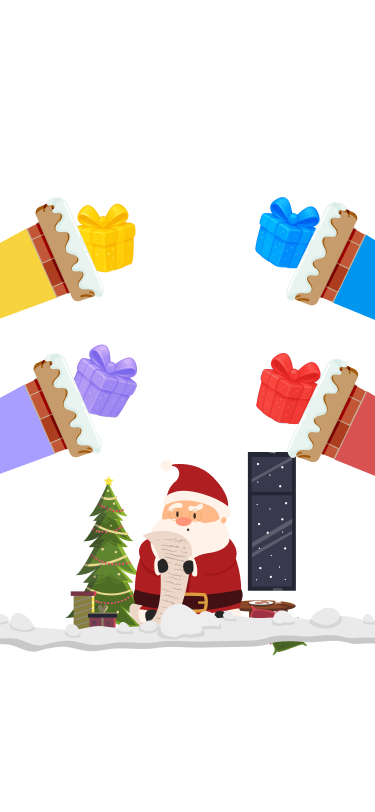
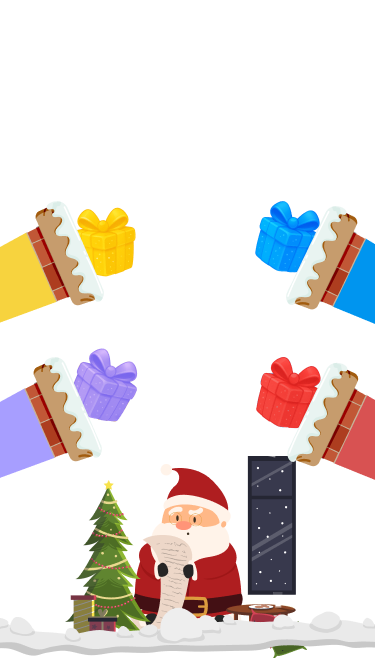
style: update button padding and background colors in various components for improved UI consistency; adjust image dimensions and layout in Game views for better visual presentation

diff --git a/src/views/Balance/ui/TransactionHistory.vue b/src/views/Balance/ui/TransactionHistory.vue
@@ -11,19 +11,22 @@ defineProps<Props>()
 </script>
 
 <template>
-  <div class="bg-white text-[#484C52] rounded-2xl p-4">
+  <div class="bg-white text-[#484C52] rounded-2xl p-2.5">
     <h2 class="text-lg font-bold text-center mb-4">История транзакций</h2>
 
     <div v-if="transactions.length > 0" class="space-y-3">
-      <template v-for="transaction in transactions" :key="transaction.id">
-        <div class="flex items-center gap-3">
+      <template v-for="(transaction, index) in transactions" :key="transaction.id">
+        <div
+          class="flex items-center gap-2.5"
+          :class="{ 'border-b border-[#484C52]/10 pb-2.5': index !== transactions.length - 1 }"
+        >
           <div
-            class="w-10 h-10 rounded-lg flex items-center justify-center shrink-0"
+            class="w-8.5 h-8.5 rounded-lg flex items-center justify-center shrink-0"
             :style="{ backgroundColor: parseColorWithOpacity(transaction.style.iconBg) }"
           >
             <Icons
               :name="transaction.style.iconName"
-              :size="20"
+              :size="transaction.style.iconName === 'check' ? 14 : 20"
               :style="{ color: transaction.style.iconColor }"
             />
           </div>
@@ -34,10 +37,10 @@ defineProps<Props>()
           </div>
 
           <div
-            class="bg-[#0095EF] flex items-center text-white justify-center gap-1 rounded-full px-3 py-1 shrink-0"
+            class="bg-[#0095EF] flex items-center text-white justify-center gap-1 rounded-full px-2 py-1 shrink-0"
           >
-            <Icons name="ton" :size="16" />
-            <p class="text-xs font-medium">{{ transaction.amount }}</p>
+            <Icons name="ton" :size="12" />
+            <p class="text-[0.625rem] font-medium">{{ transaction.amount }}</p>
           </div>
         </div>
       </template>
@@ -48,4 +51,3 @@ defineProps<Props>()
     </div>
   </div>
 </template>
-

diff --git a/src/components/layout/Header.vue b/src/components/layout/Header.vue
@@ -80,13 +80,13 @@ const setVibration = (enabled: boolean) => {
         <div class="space-y-2.5 pt-10 font-raleway text-[#484C52]">
           <div class="flex items-center justify-between gap-2.5 rounded-xl bg-[#F5F5F5] p-1.5">
             <button
-              class="flex w-full items-center justify-center gap-2.5 rounded-full bg-[#A79EFF] py-3.5 text-white"
+              class="flex w-full items-center justify-center gap-2.5 rounded-full bg-[#A79EFF] py-2 text-white"
             >
               <Icons name="down-arrow" />
               <span class="font-raleway font-bold">{{ t('settings.actions.deposit') }}</span>
             </button>
             <button
-              class="flex w-full items-center justify-center gap-2.5 rounded-full border border-[#E4E4E4] bg-white py-3.5 text-black"
+              class="flex w-full items-center justify-center gap-2.5 rounded-full border border-[#E4E4E4] bg-white py-2 text-[#484C52]"
             >
               <span class="font-raleway font-bold">{{ t('settings.actions.withdraw') }}</span>
               <Icons name="up-arrow" />
@@ -109,7 +109,7 @@ const setVibration = (enabled: boolean) => {
                 "
                 @click="selectLanguage(language.id)"
               >
-                <img :src="language.image" :alt="language.label" class="h-5 w-5 rounded-full" />
+                <img :src="language.image" :alt="language.label" class="h-5 aspect-[4/3] rounded-sm" />
                 {{ language.label }}
               </button>
             </div>

diff --git a/src/views/Balance/ui/PaymentMethodSelector.vue b/src/views/Balance/ui/PaymentMethodSelector.vue
@@ -25,19 +25,19 @@ const handleSelect = (methodId: string) => {
       <button
         v-for="method in methods"
         :key="method.id"
-        class="rounded-xl p-2.5 flex flex-col items-center gap-1.5 transition-all"
-        :class="selectedId === method.id ? 'bg-[#0095EF]' : 'bg-[#F7F7F7]'"
+        class="rounded-xl pt-[5px] pb-2.5 flex flex-col items-center  transition-all"
+        :class="selectedId === method.id ? 'bg-[#0095EF]' : 'bg-[#F5F5F5]'"
         @click="handleSelect(method.id)"
       >
-        <img :src="method.icon" :alt="method.name" class="w-6 h-6" />
+        <img :src="method.icon" :alt="method.name" class="w-7.5 h-7.5 border-3 rounded-full" :class="selectedId === method.id ? 'border-white' : 'border-transparent'" />
         <p
-          class="text-xs font-medium text-center"
+          class="text-xs font-medium text-center leading-none pt-2.5"
           :class="selectedId === method.id ? 'text-white' : 'text-black'"
         >
           {{ method.name }}
         </p>
         <p
-          class="text-[0.625rem]"
+          class="text-[0.625rem] leading-none"
           :class="selectedId === method.id ? 'text-white/50' : 'text-black/50'"
         >
           от {{ method.minAmount }}

diff --git a/src/views/Game/index.vue b/src/views/Game/index.vue
@@ -10,14 +10,14 @@ const startGame = () => {
 </script>
 
 <template>
-  <div class="game-intro p-4 pt-0 min-h-[calc(100vh-9rem)] flex flex-col justify-between mt-4">
+  <div class="game-intro p-4 pt-0 h-[calc(100vh-9rem)] flex flex-col items-center justify-start gap-2 mt-4">
     <div class="text-center max-w-[15rem] mx-auto space-y-1">
       <h1 class="text-[1.5rem] text-white font-bold uppercase">Задание</h1>
       <p class="text-center text-white">Распредели подарки свайпами в нужную трубу</p>
     </div>
     <button
       @click="startGame"
-      class="flex items-center relative gap-2 justify-center bg-primary w-full font-bold rounded-full text-white px-4 py-2.5"
+      class="flex items-center gap-2 justify-center bg-primary font-bold rounded-full text-white px-16 py-2.5"
     >
       <Icons name="play" />
       Запустить игру
@@ -29,7 +29,7 @@ const startGame = () => {
 .game-intro {
   background-image: url('@/assets/images/game/game-intro.png');
   background-size: cover;
-  background-position: 0 -100px;
+  background-position: bottom;
   background-repeat: no-repeat;
 }
 </style>

diff --git a/src/views/Tasks/ui/DailyRewardDayCard.vue b/src/views/Tasks/ui/DailyRewardDayCard.vue
@@ -27,8 +27,8 @@ const handleClick = () => {
       class="relative overflow-hidden w-full p-1.5 rounded-2xl transition-all duration-200 ease-in-out"
       :class="{
         'bg-[#A4DD9E]': isOpened,
-        'bg-[#FFFFFF]/70': !isOpened && day.status === 'available',
-        'opacity-40 cursor-default': day.status === 'locked',
+        'bg-[#F5F5F5]': !isOpened && day.status === 'available',
+        'bg-[#E4E4E4] opacity-40 cursor-default': day.status === 'locked',
         'hover:-translate-y-1 cursor-pointer': day.status === 'available' && !isOpened,
         'cursor-pointer': isOpened,
       }"
@@ -49,7 +49,7 @@ const handleClick = () => {
       <button
         class="inline-flex items-center justify-center bg-white/30 w-full py-[0.3125rem] rounded-full mt-2.5"
       >
-        <Icons v-if="isOpened" name="check" :size="16" class="text-black" />
+        <Icons v-if="isOpened" name="check" :size="16" class="text-white" />
         <p v-if="!isOpened" class="mt-1 text-xs font-medium text-black">День {{ day.day }}</p>
       </button>
     </article>

diff --git a/src/views/Game/GamePlay/index.vue b/src/views/Game/GamePlay/index.vue
@@ -396,7 +396,7 @@ onUnmounted(() => {
       <img
         :src="boxImages[colorKey as GiftColor]"
         alt=""
-        class="w-20 h-20 transition-transform hover:scale-110"
+        class="w-20 h-26 transition-transform hover:scale-110"
       />
     </div>
 
@@ -415,7 +415,7 @@ onUnmounted(() => {
       @mousedown="(e) => onGiftMouseDown(e, gift)"
       @touchstart="(e) => onGiftMouseDown(e, gift)"
     >
-      <img :src="giftImages[gift.color]" alt="" class="w-16 h-16 pointer-events-none" />
+      <img :src="giftImages[gift.color]" alt="" class="w-20 h-20 pointer-events-none" />
     </div>
 
     <div

diff --git a/src/views/Balance/model/constants.ts b/src/views/Balance/model/constants.ts
@@ -106,12 +106,12 @@ export const TRANSACTION_STYLES = {
   },
   deposit: {
     iconColor: '#0095EF',
-    iconBg: '#0095EF/20',
+    iconBg: '#0095EF/10',
     iconName: 'deposit',
   },
   reward: {
     iconColor: '#F67F2A',
-    iconBg: '#F67F2A/20',
+    iconBg: '#F67F2A/10',
     iconName: 'gift',
   },
 } as const
